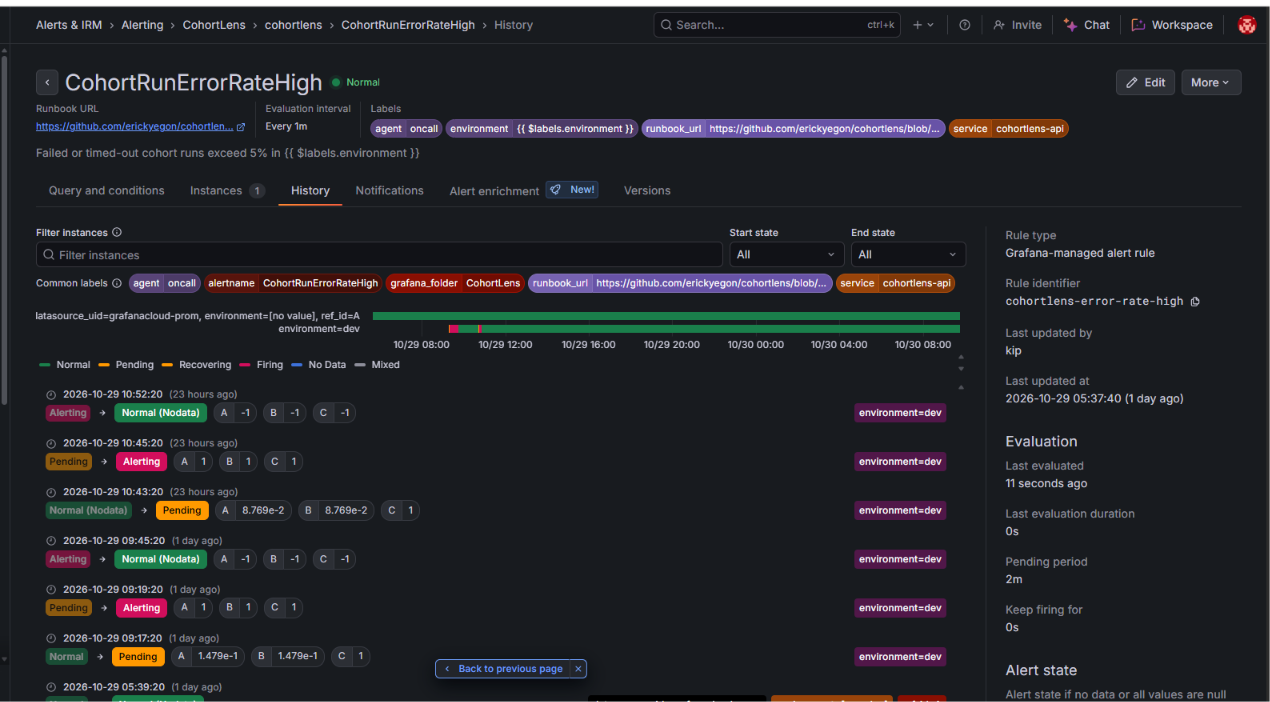
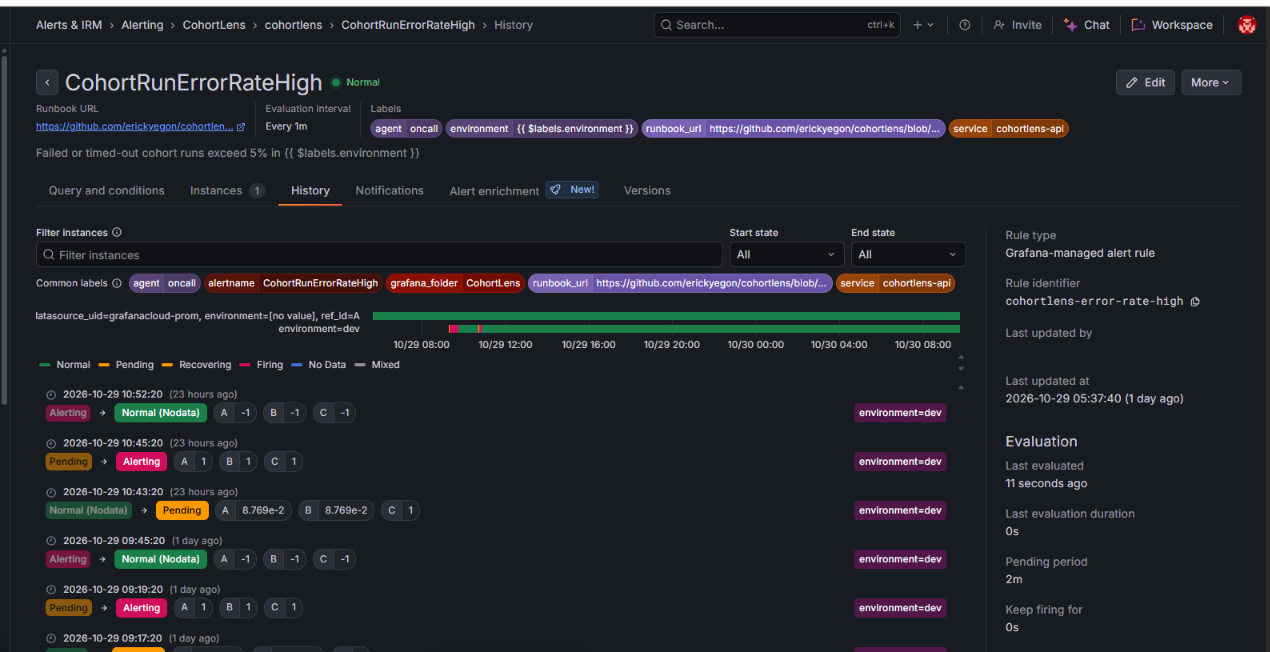
docs: review round 1 of #90 (remove a username, the extension overlay and fragments; captions)

diff --git a/README.md b/README.md
@@ -19,11 +19,11 @@ At its last promotion prod served exactly the image digests dev served. The data
 
 ### Screenshots
 
-**The results screen** for the reference cohort (prod): final count 481, the attrition waterfall and the start of the baseline table. Synthetic data only.
+**The results screen** for the reference cohort: final count 481, the attrition waterfall and the start of the baseline table. Synthetic data only.
 
 ![Results screen for the reference cohort: final count 481, attrition waterfall, baseline](docs/img/results-desktop.png)
 
-**The alert, from the alert rule's History tab:** `CohortRunErrorRateHigh` going Normal, Pending, Alerting and back to Normal during drill S1. The times in the screenshot are the owner's local time (UTC−4): the successful drill is the top episode (10:43 to 10:52 local, 14:43 to 14:52 UTC on 2026-10-29); the one below it (09:17 to 09:45 local, 13:17 to 13:45 UTC) is the first, failed attempt, where the agent refused a malformed alert.
+**The alert, from the alert rule's History tab:** `CohortRunErrorRateHigh` going Normal, Pending, Alerting and back to Normal during drill S1 (it cleared as "Normal (Nodata)": once the rollback stopped the failing runs there were too few runs left to evaluate; the resolved notification reached GitHub at 14:55:53 UTC). The times in the screenshot are the owner's local time (UTC−4): the successful drill is the top episode (10:43 to 10:52 local, 14:43 to 14:52 UTC on 2026-10-29); the one below it (09:17 to 09:45 local, 13:17 to 13:45 UTC) is the first, failed attempt, where the agent refused a malformed alert.
 
 ![CohortRunErrorRateHigh history: Normal, Pending, Alerting, Normal](docs/img/alert-firing.png)
 
@@ -31,7 +31,7 @@ At its last promotion prod served exactly the image digests dev served. The data
 
 ![Incident #78: opened by the workflow, rollback by the agent, closed](docs/img/incident-78.png)
 
-**The production approval gate** on the promotion of `ff96024` ([run 40957191682](https://github.com/erickyegon/cohortlens/actions/runs/40957191682)): the `production` environment waits for the owner's approval.
+**The production approval gate** on the promotion of `ff96024` ([run 40957191682](https://github.com/erickyegon/cohortlens/actions/runs/40957191682)): the `production` environment pauses the run until the owner approves; the page shows the owner's approval (and that this was a re-run, which is why it says "Latest #2").
 
 ![Promote to prod: the production environment approval](docs/img/prod-approval.png)
 
